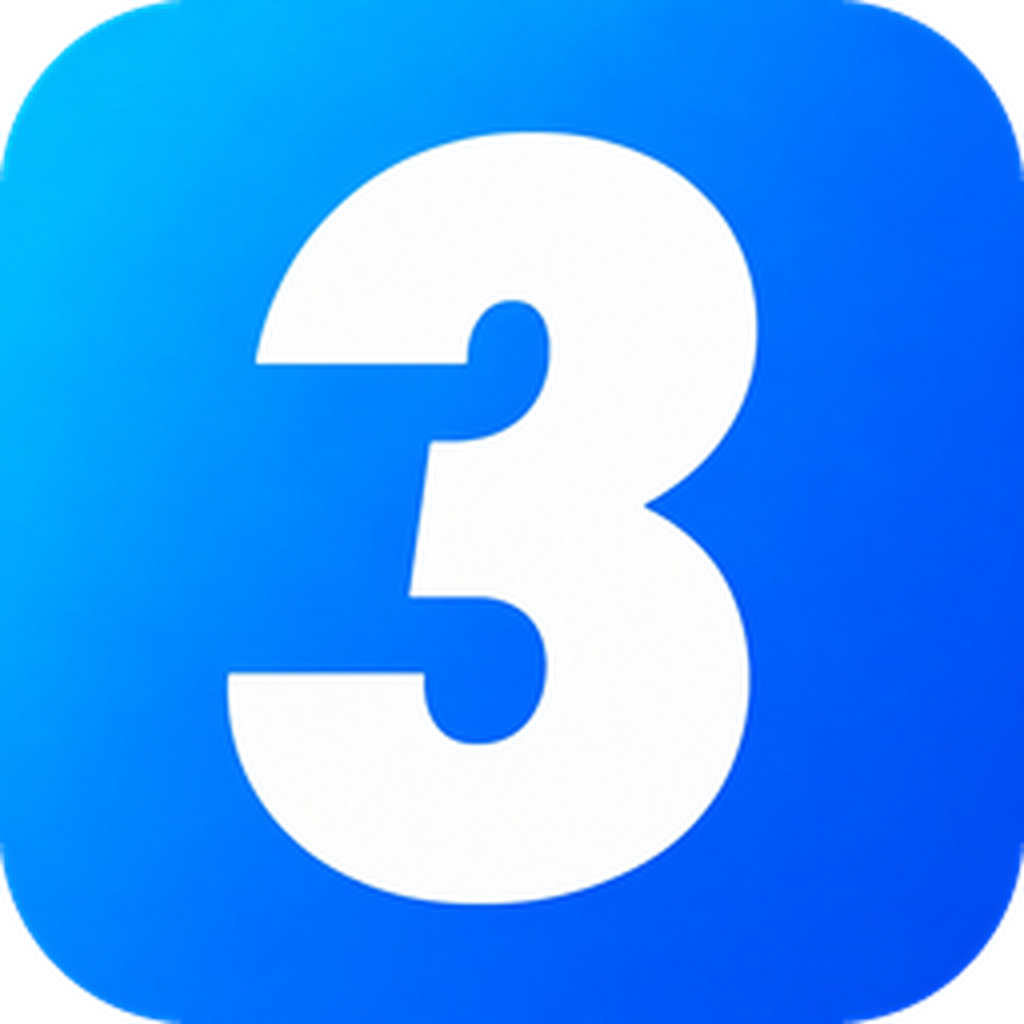
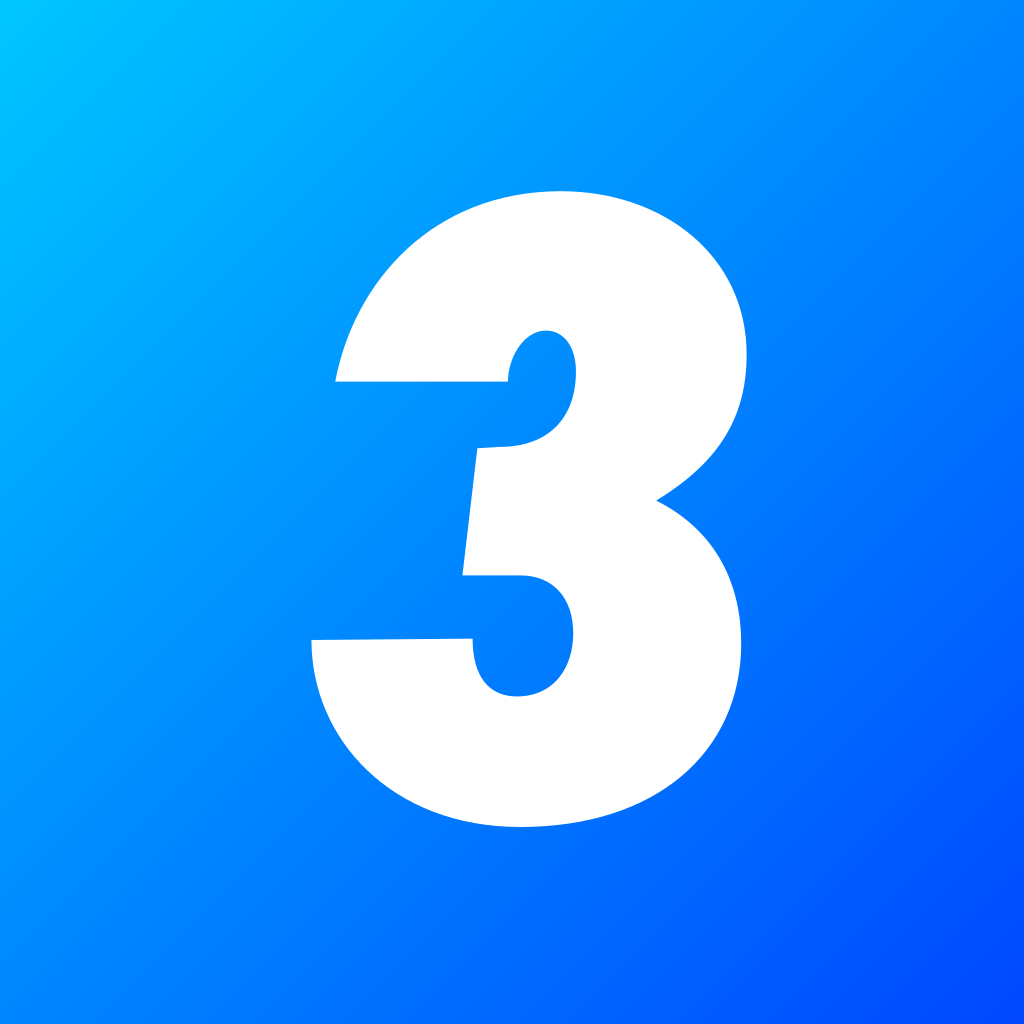
feat: 모드별 숫자 3 로고를 앱과 시작 화면에 적용

diff --git a/src/components/ui/AppLogo.tsx b/src/components/ui/AppLogo.tsx
@@ -1,6 +1,18 @@
 import React, { useState } from 'react';
 import { Image, Text, View } from 'react-native';
 import { fontBold } from '../../theme/tokens';
+import { useTheme } from '../../theme/ThemeProvider';
+
+const logos = {
+  light: require('../../../assets/icon.png'),
+  dark: require('../../../assets/icon-dark.png'),
+  dim: require('../../../assets/icon-tinted.png'),
+};
+const fallback = {
+  light: { background: '#008DFF', foreground: '#FFFFFF' },
+  dark: { background: '#07132E', foreground: '#259BFF' },
+  dim: { background: '#161616', foreground: '#FFFFFF' },
+};
 
 interface Props {
   size?: number;
@@ -8,16 +20,21 @@ interface Props {
 }
 
 export function AppLogo({ size = 32, testID }: Props) {
-  const [failed, setFailed] = useState(false);
+  const { theme } = useTheme();
+  const mode = theme.mode;
+  const [failedMode, setFailedMode] = useState<typeof mode | null>(null);
+  const failed = failedMode === mode;
   return (
-    <View testID={testID} accessible={false} style={{ width: size, height: size, flexShrink: 0, borderRadius: size * 0.2, overflow: 'hidden', backgroundColor: '#008DFF', alignItems: 'center', justifyContent: 'center' }}>
-      {failed ? <Text style={{ color: '#FFFFFF', fontFamily: fontBold, fontSize: size * 0.86, lineHeight: size }}>3</Text> : <Image
+    <View testID={testID} accessible={false} style={{ width: size, height: size, flexShrink: 0, borderRadius: size * 0.2, overflow: 'hidden', backgroundColor: fallback[mode].background, alignItems: 'center', justifyContent: 'center' }}>
+      {failed ? <Text accessible={false} style={{ color: fallback[mode].foreground, fontFamily: fontBold, fontSize: size * 0.86, lineHeight: size }}>3</Text> : <Image
+        key={mode}
         testID={testID ? `${testID}-image` : undefined}
-        source={require('../../../assets/icon.png')}
+        source={logos[mode]}
         style={{ width: size, height: size }}
         resizeMode="contain"
         accessible={false}
-        onError={() => setFailed(true)}
+        onError={() => setFailedMode(mode)}
+        onLoad={() => setFailedMode(null)}
       />}
     </View>
   );

diff --git a/src/components/ui/__tests__/AppLogo.test.tsx b/src/components/ui/__tests__/AppLogo.test.tsx
@@ -1,6 +1,8 @@
 import React from 'react';
-import { fireEvent, render, screen } from '@testing-library/react-native';
+import { act, fireEvent, render, screen } from '@testing-library/react-native';
 import { AppLogo } from '../AppLogo';
+import { ThemeProvider } from '../../../theme/ThemeProvider';
+import { useSettingsStore } from '../../../store/settingsStore';
 
 it('keeps the bundled number 3 logo in a fixed header slot', () => {
   render(<AppLogo size={30} testID="logo" />);
@@ -14,4 +16,17 @@ it('keeps a visible number 3 when the bundled image cannot be decoded', () => {
   expect(screen.getByText('3')).toBeTruthy();
   expect(screen.queryByTestId('logo-image')).toBeNull();
   expect(screen.getByTestId('logo').props.style).toMatchObject({ width: 30, height: 30 });
+});
+
+it('tries the next mode logo after a decode failure and restores the light logo after loading', async () => {
+  useSettingsStore.getState().setThemeMode('light');
+  render(<ThemeProvider><AppLogo size={30} testID="logo" /></ThemeProvider>);
+  fireEvent(screen.getByTestId('logo-image'), 'error', { nativeEvent: { error: 'decode failed' } });
+  expect(screen.getByText('3')).toBeTruthy();
+  await act(async () => { useSettingsStore.getState().setThemeMode('dark'); });
+  expect(screen.getByTestId('logo-image')).toBeTruthy();
+  fireEvent(screen.getByTestId('logo-image'), 'load');
+  await act(async () => { useSettingsStore.getState().setThemeMode('light'); });
+  expect(screen.getByTestId('logo-image')).toBeTruthy();
+  expect(screen.queryByText('3')).toBeNull();
 });

diff --git a/app/_layout.tsx b/app/_layout.tsx
@@ -43,7 +43,7 @@ import { DailyWelcomeGate } from '../src/components/home/DailyLearningWelcome';
 
 applyGlobalFont();
 
-// 인트로는 '네이티브 스플래시(흰 배경 + KFPA 로고) 하나'만 쓴다.
+// 인트로는 OS 밝기 모드에 맞는 숫자 3 로고의 네이티브 스플래시 하나만 쓴다.
 // - preventAutoHide: 앱이 준비될 때까지(폰트+세션복구) 네이티브 스플래시를 유지했다가
 //   직접 걷는다. 별도 JS 부팅 스플래시를 두지 않아 '인트로 2개'로 보이지 않는다.
 // - fade:true: 준비되면 부드럽게 페이드아웃되며 앱으로 넘어간다.
@@ -85,7 +85,7 @@ function RootContent() {
 
   const ready = (fontsLoaded || !!fontError) && bootstrapped;
 
-  // 인트로는 '네이티브 스플래시(흰 배경 + KFPA 로고) 하나'만 사용한다.
+  // 인트로는 모드별 숫자 3 로고의 네이티브 스플래시 하나만 사용한다.
   // 폰트 로드 + 세션 복구가 끝나면(ready) 네이티브 스플래시를 걷어 곧장 앱으로 넘어간다.
   // (기존의 JS 부팅 스플래시 오버레이는 네이티브 스플래시와 겹쳐 '인트로 2개'로 보였고,
   //  로고 크기 점프·글자 잘림 문제가 있어 제거했다.)
